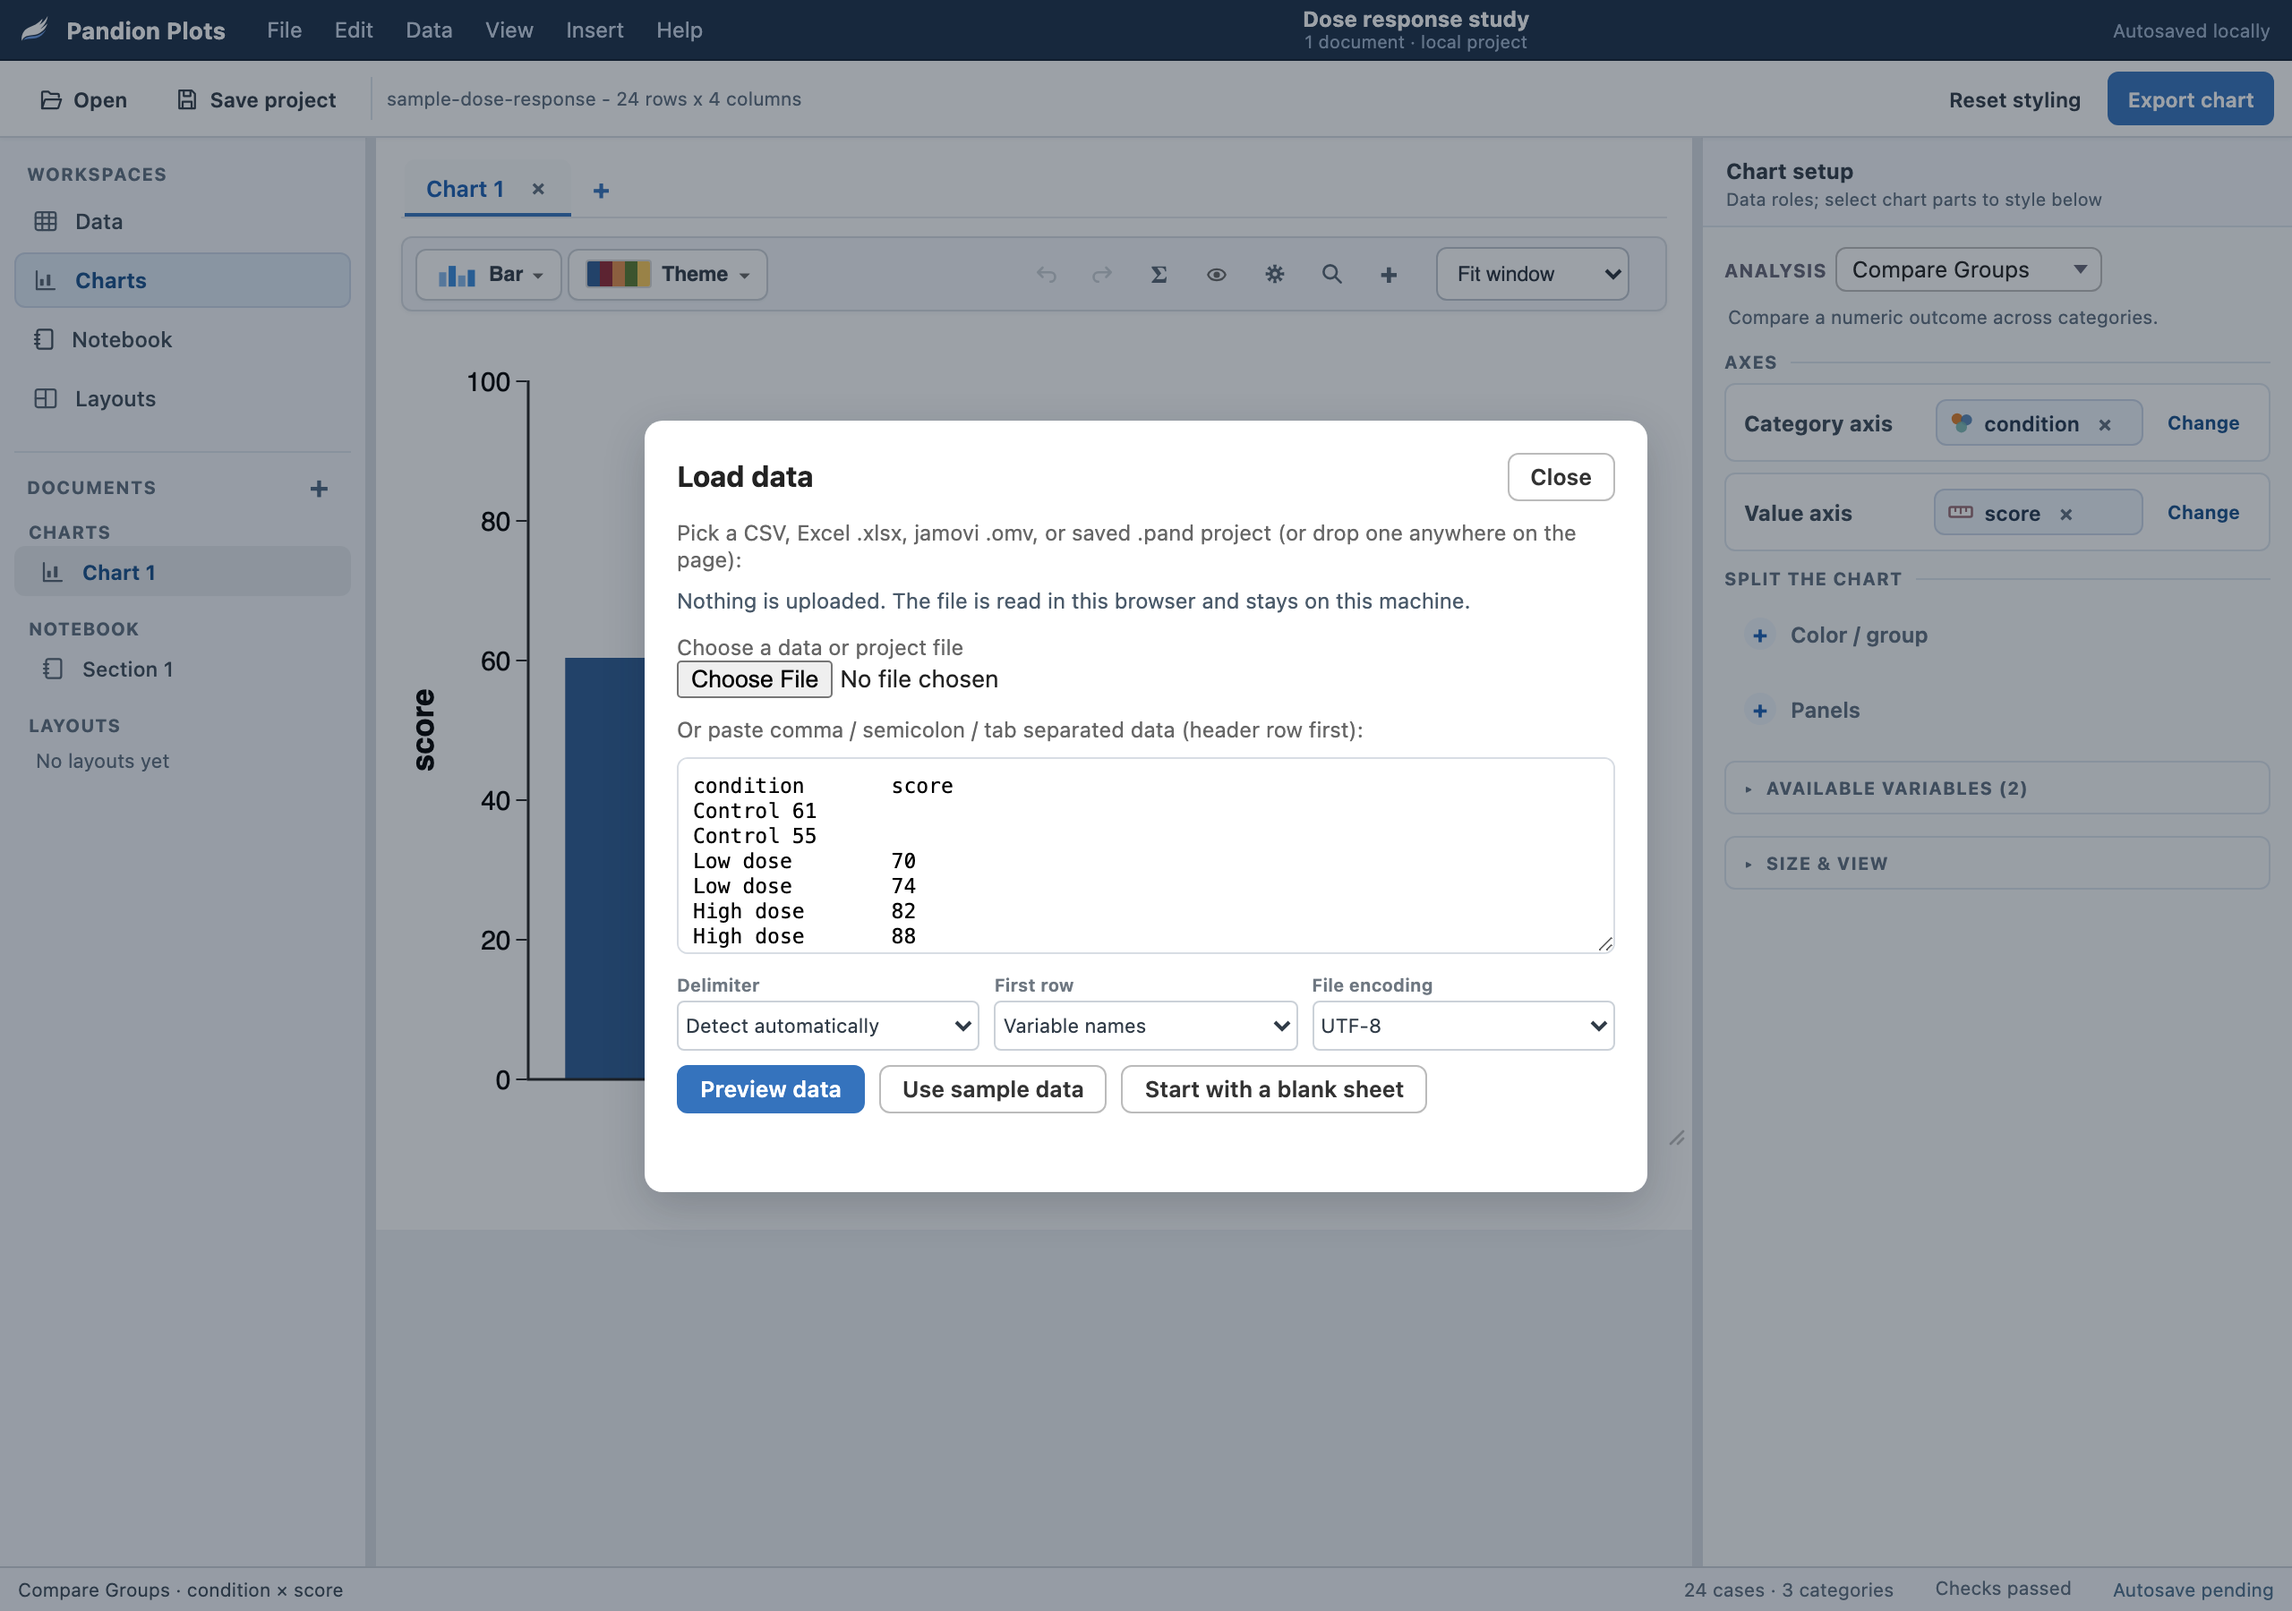
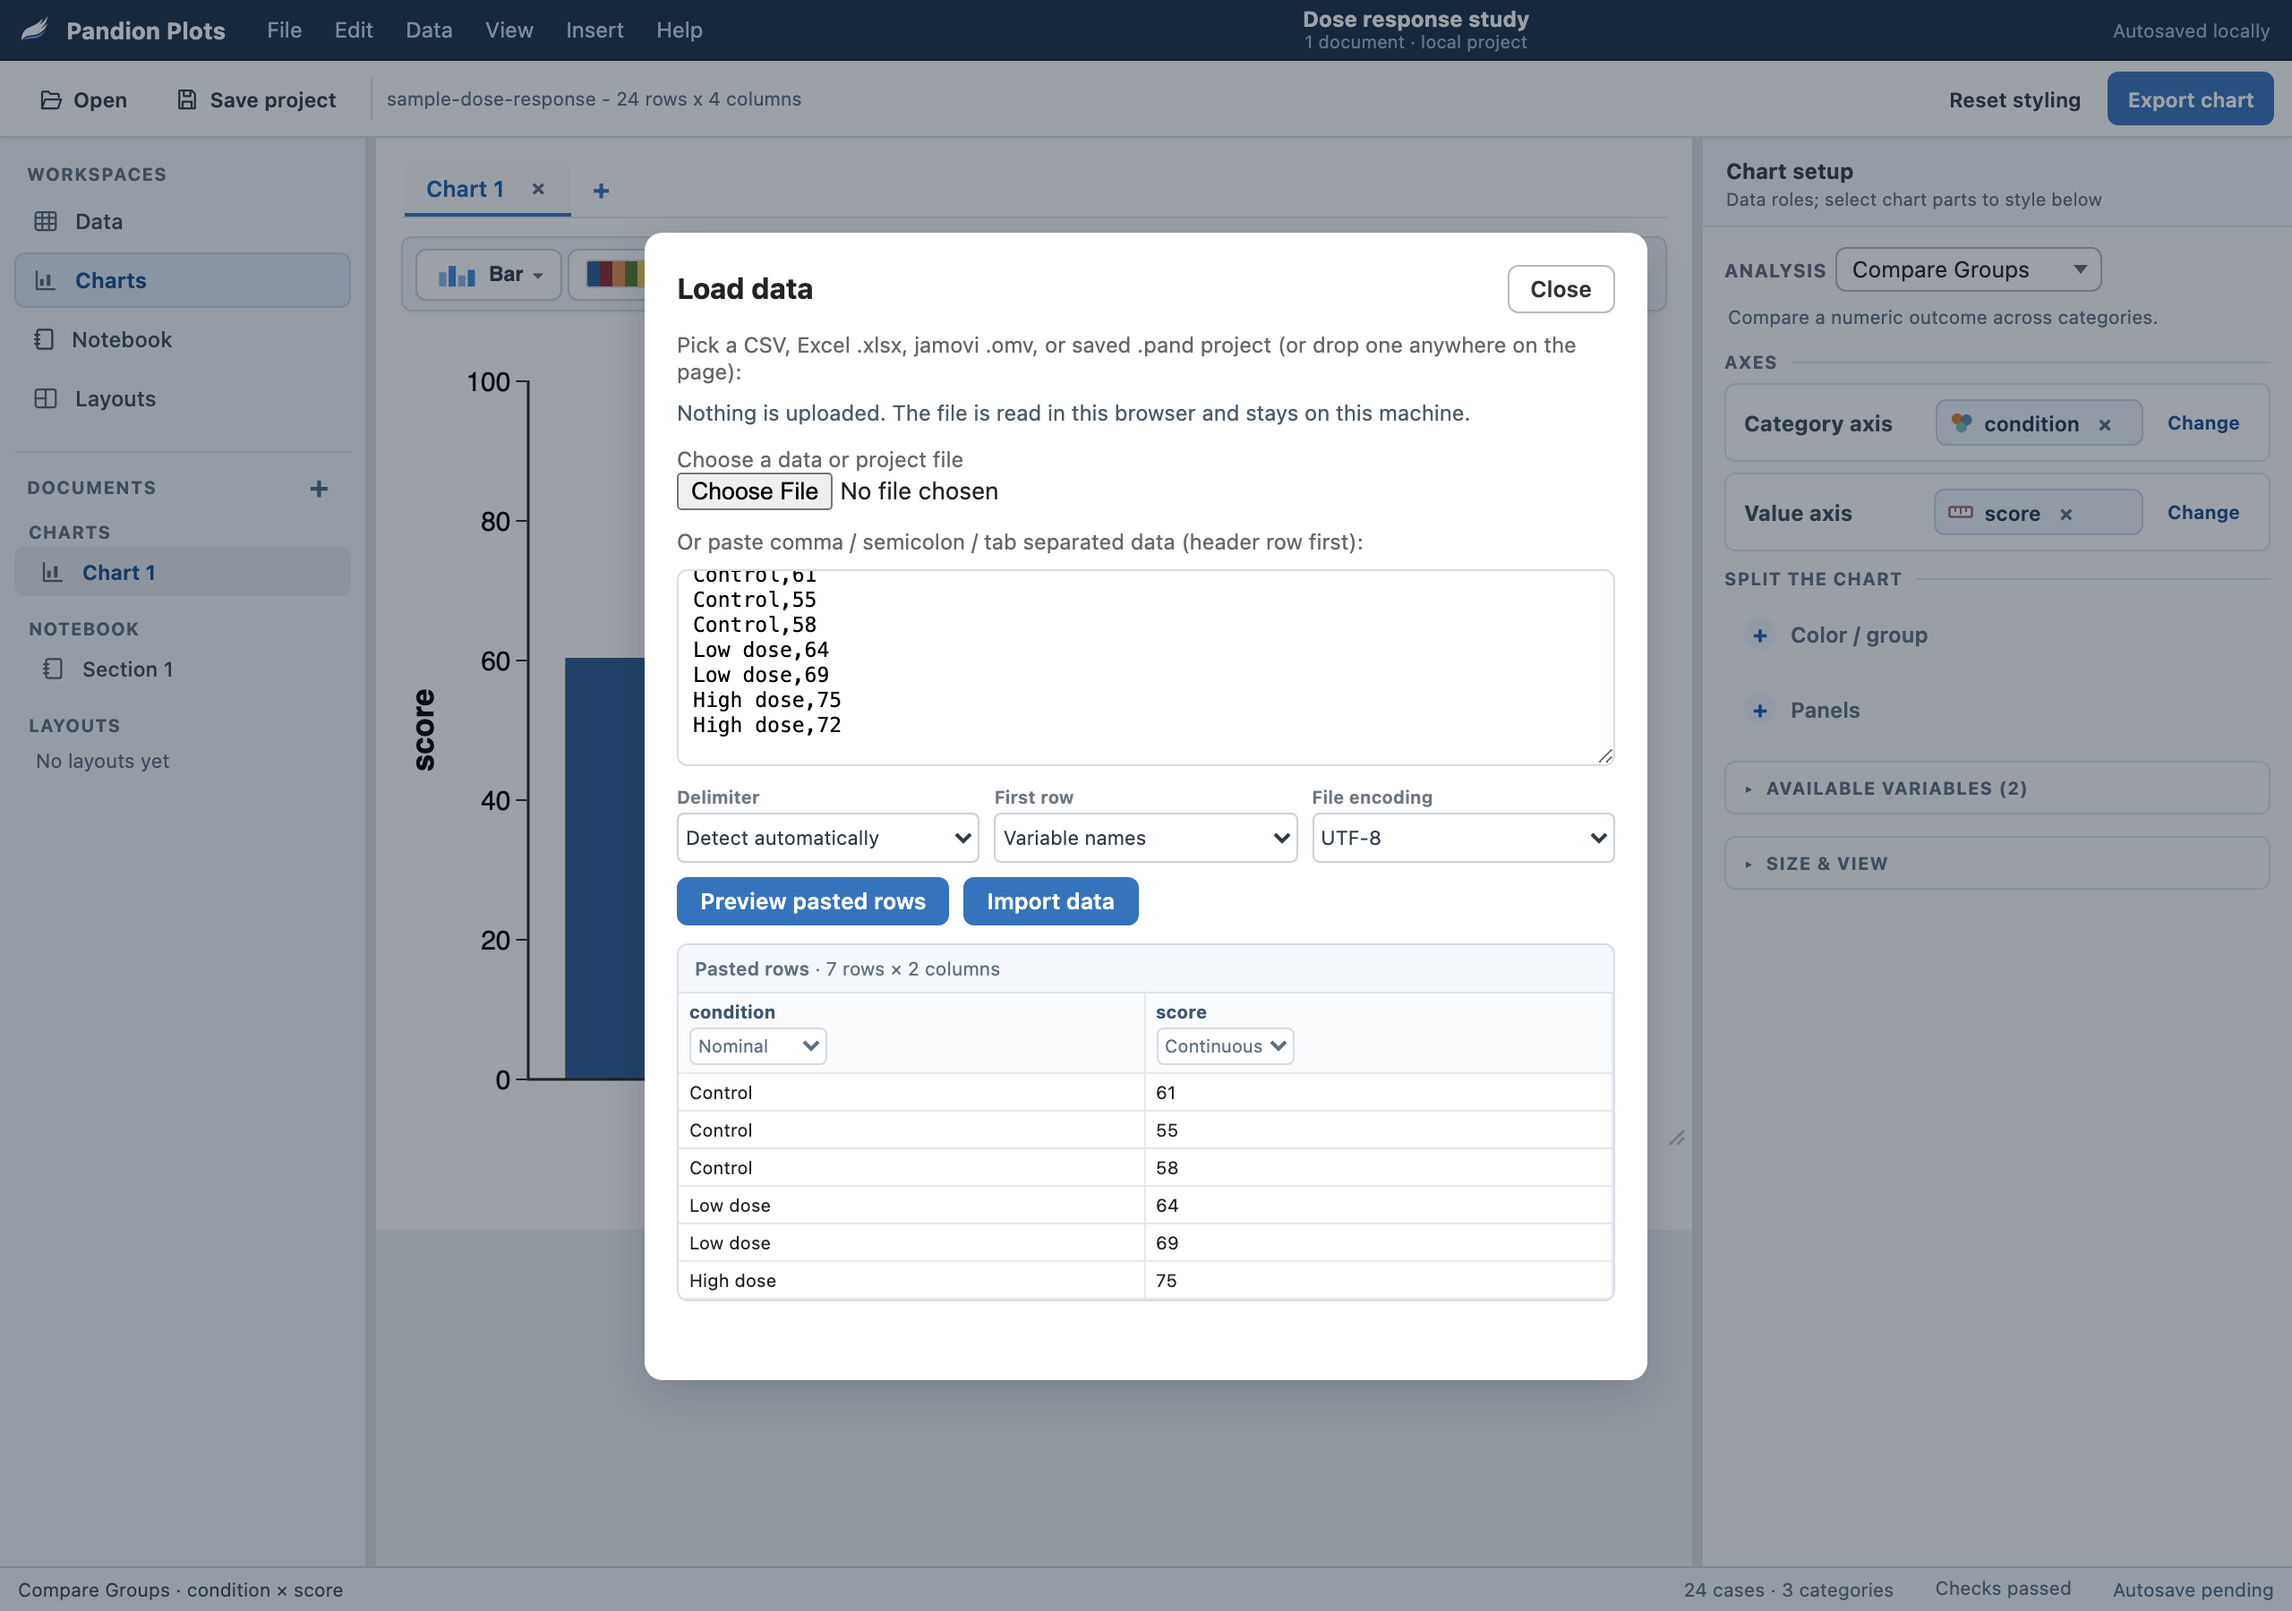
The welcome is the only place that offers ways to start: Use sample data and Start with a blank sheet leave the Load data dialog, the blank-sheet card says what it makes, and every Open fires the file chooser

Changed region(s): [[0.2812, 0.1244, 0.7188, 0.8711]]

diff --git a/standalone/js/ps-shell.js b/standalone/js/ps-shell.js
@@ -27294,6 +27294,14 @@
       try { if (first) first.focus(); } catch (ignore) {}
     }, 0);
   }
+  // Every Open (welcome, toolbar, File menu) opens the file chooser with
+  // the Load data dialog behind it, so cancelling the chooser still leaves
+  // the paste box and the drop surface in reach (Torry's audit, Sep 21
+  // 2026: the welcome's Open fired the chooser and the other two did not).
+  function openLoaderWithChooser() {
+    openLoader();
+    try { el("ps-file").click(); } catch (ignore) {}
+  }
   // The Preview button previews the paste box and nothing else, so it shows
   // only while the box holds something (Torry, Sep 21 2026: with a file
   // already previewed it repainted the same preview and read as broken).
@@ -27355,7 +27363,7 @@
     offerReplacedProjectBack(replaced, "a blank project");
   }
   function wireLoader() {
-    el("ps-load").addEventListener("click", openLoader);
+    el("ps-load").addEventListener("click", openLoaderWithChooser);
     el("ps-loader-close").addEventListener("click", closeLoader);
     el("ps-loader").addEventListener("click", function (e) {
       if (e.target === el("ps-loader")) closeLoader();
@@ -27454,15 +27462,9 @@
     el("ps-import-delimiter").addEventListener("change", reparsePreview);
     el("ps-import-header").addEventListener("change", reparsePreview);
     el("ps-import-encoding").addEventListener("change", rereadImportFile);
-    el("ps-sample").addEventListener("click", function () {
-      dataHistoryClear();
-      loadSample();
-      persist();
-      syncAll();
-      render();
-      closeLoader();
-    });
-    el("ps-blank").addEventListener("click", adoptBlankProject);
+    // Use sample data and Start with a blank sheet left this dialog on
+    // Sep 21 2026 (Torry's audit): both are doors the welcome already has,
+    // and the dialog's one job is bringing in a file or pasted rows.
     // Whole-page drag-drop.
     // Punch list 21. The loader advertises "or drop one anywhere on the page"
     // and the page itself did nothing to show it: a bare dragover
@@ -27910,10 +27912,7 @@
     el("ps-welcome-continue").addEventListener("click", function () {
       persist(false); hideWelcome();
     });
-    el("ps-welcome-open").addEventListener("click", function () {
-      hideWelcome(); openLoader();
-      try { el("ps-file").click(); } catch (ignore) {}
-    });
+    el("ps-welcome-open").addEventListener("click", openLoaderWithChooser);
     el("ps-welcome-new").addEventListener("click", function () {
       adoptBlankProject();
     });
@@ -30749,7 +30748,7 @@
       showWelcome(true);
       window.setTimeout(function () { el("ps-welcome-new").focus(); }, 0);
     }
-    else if (command === "open") openLoader();
+    else if (command === "open") openLoaderWithChooser();
     else if (command === "welcome") showWelcome(true);
     else if (command === "reopen-closed") {
       var closedNow = closedDocsAvailable();

diff --git a/standalone/index.html b/standalone/index.html
@@ -5546,8 +5546,8 @@
           <button type="button" class="ps-launch-action" id="ps-welcome-new">
             <span class="ps-launch-icon"><svg class="ps-icn" width="17" height="17" viewBox="0 0 24 24" fill="none" stroke="currentColor" stroke-width="1.8" stroke-linecap="round" stroke-linejoin="round" aria-hidden="true"><path d="M6 3h8l4 4v14H6z"/><path d="M14 3v4h4"/><path d="M12 11v6M9 14h6"/></svg></span>
             <span class="ps-launch-copy">
-              <strong>New project</strong>
-              <span>A blank data sheet to type into</span>
+              <strong>Blank data sheet</strong>
+              <span>Type your own data in, with one fresh chart</span>
             </span>
           </button>
           <button type="button" class="ps-launch-action" id="ps-welcome-paste">
@@ -6500,9 +6500,6 @@
         <button type="button" class="ps-btn ps-primary" id="ps-paste-use" style="display:none;">Preview pasted rows</button>
         <button type="button" class="ps-btn ps-primary" id="ps-import-use"
                 style="display:none;">Import data</button>
-        <button type="button" class="ps-btn" id="ps-sample">Use sample data</button>
-        <button type="button" class="ps-btn" id="ps-blank"
-                data-tip="An empty data sheet to type into, with one fresh chart">Start with a blank sheet</button>
       </div>
       <div id="ps-import-preview"></div>
     </div>

diff --git a/website/learn-data.html b/website/learn-data.html
@@ -198,7 +198,7 @@
       <figure class="fig">
   <img width="2560" height="1800" src="assets/tutorial/dat-paste.png"
        data-image-kind="illustrative"
-       alt="The Load data dialog: a file picker, a paste box holding tab-separated rows of condition and score data, selects for delimiter, first row and file encoding, and buttons Preview data, Use sample data, and Start with a blank sheet">
+       alt="The Load data dialog: a file picker, a paste box holding comma-separated rows of condition and score data, selects for delimiter, first row and file encoding, a Preview pasted rows button, and the preview table beneath with a type selector for each variable">
   <figcaption>The Load data dialog. The delimiter is detected automatically; the first row becomes your variable names.</figcaption>
 </figure>
       <p class="note">
